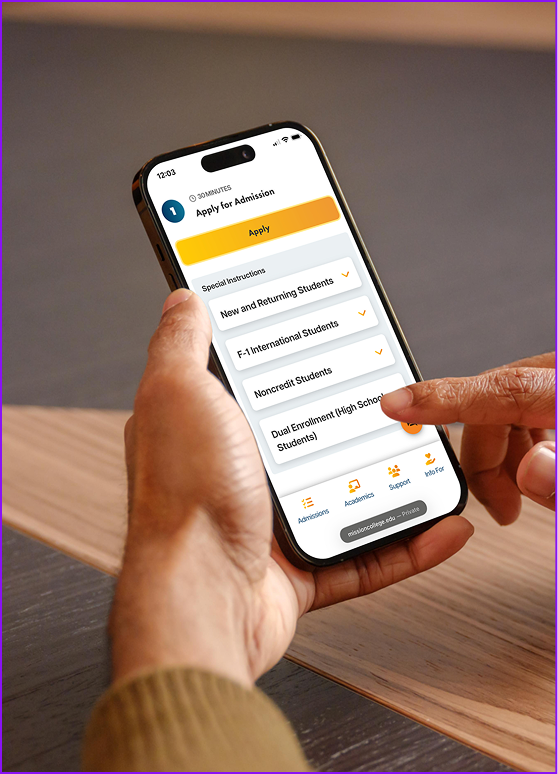
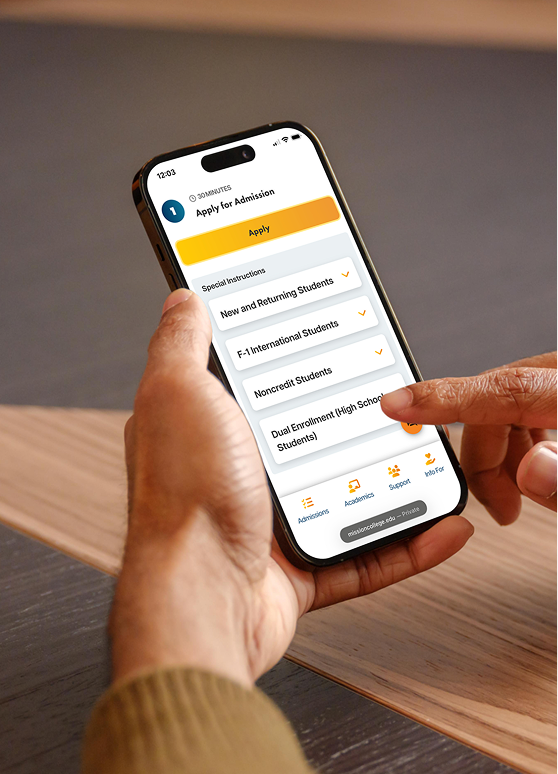
more content changes for Mission College

Changed region(s): [[0.0, 0.0, 1.0, 1.0]]

diff --git a/projects/mission-free-college.html b/projects/mission-free-college.html
@@ -275,6 +275,25 @@
             <div style="font-family:'Space Mono',monospace; font-weight:700; font-size:14px; color:#e2e2e2; letter-spacing:0.5px;">→ Deliverables: focus groups, surveys, UX testing, wireframes, visual designs & prototypes</div>
           </div>
 
+          <!-- Gallery -->
+          <div style="padding: 64px 48px 72px; border-top: 1px solid #26262d;">
+            <div style="font-family:'Space Mono',monospace; font-weight:400; font-size:11px; color:#9999aa; letter-spacing:1.5px; text-transform:uppercase; margin-bottom:24px;">Gallery</div>
+            <div style="display:grid; grid-template-columns:1fr 1fr; gap:8px;">
+              <img src="../assets/Mission-tab.png" alt="Mission: Free College — mobile tab bar" style="display:block; width:100%; height:240px; object-fit:cover; object-position:top; border:1px solid #26262d;">
+              <img src="../assets/Misison-enroll.png" alt="Mission: Free College — enrollment page" style="display:block; width:100%; height:240px; object-fit:cover; object-position:top; border:1px solid #26262d;">
+              <img src="../assets/Mission-desk1.png" alt="Mission: Free College — desktop view 1" style="display:block; width:100%; height:240px; object-fit:cover; object-position:top; border:1px solid #26262d;">
+              <img src="../assets/Mission-desk2.png" alt="Mission: Free College — desktop view 2" style="display:block; width:100%; height:240px; object-fit:cover; object-position:top; border:1px solid #26262d;">
+            </div>
+          </div>
+
+          <!-- Epilogue -->
+          <div style="padding: 64px 48px 72px; border-top: 1px solid #26262d;">
+            <div style="font-family:'Space Mono',monospace; font-weight:700; font-size:11px; color:#39ff14; letter-spacing:2px; text-transform:uppercase; margin-bottom:32px;">[ EPILOGUE ]</div>
+            <h2 style="font-family:'Space Mono',monospace; font-weight:700; font-size:40px; color:#e2e2e2; letter-spacing:-1.5px; line-height:1.1; margin:0 0 24px;" data-typewriter>Speaking at Digital Collegium</h2>
+            <p style="font-family:'IBM Plex Mono',monospace; font-weight:400; font-size:15px; color:#9999aa; line-height:1.7; margin:0 0 48px; max-width:560px;">Ben Demers, Mission's Director of Comms and I co-presented at Digital Collegium 2025. The perfect design doesn't matter if you haven't designed the process.</p>
+            <img src="../assets/Mission-DC.png" alt="Mission: Free College — Digital Collegium 2025 presentation" style="display:block; width:100%; object-fit:cover; object-position:top; border:1px solid #26262d;">
+          </div>
+
         </div>
 
       </section>
